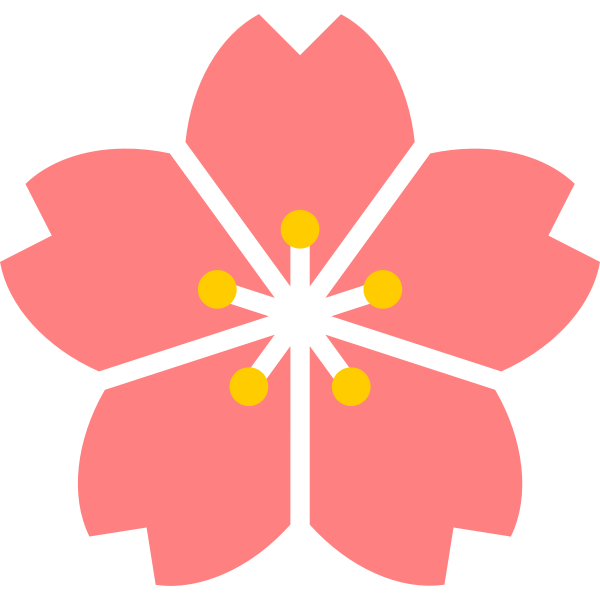
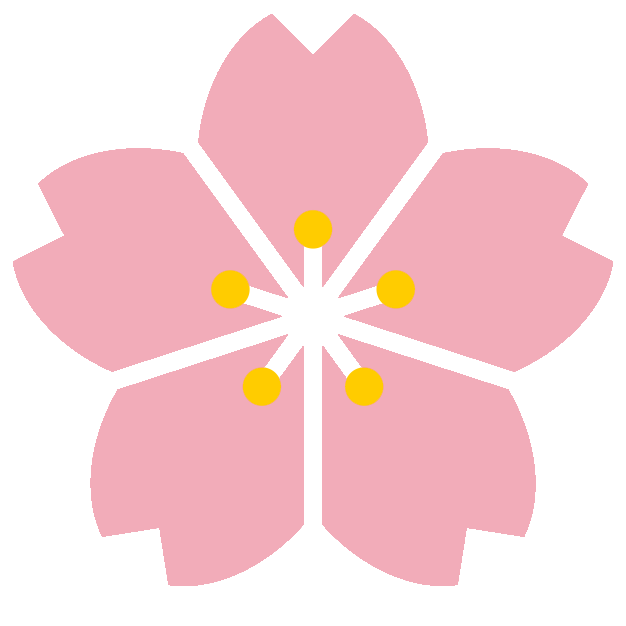
format head; update images

diff --git a/resources/css/styles.css b/resources/css/styles.css
@@ -2,3 +2,50 @@ html
 {
     font-family: 'Spartan', sans-serif;
 }
+
+body
+{
+    width: auto;
+    margin: 0 0;
+    padding: 36px 36px;
+}
+
+.background
+{
+    position: fixed;
+    top: 0;
+    left: 0;
+    z-index: -10;
+    background-image: url(../images/site-bg.jpg);
+    background-size: cover;
+    width: 100%;
+    height: 100%;
+}
+
+header
+{
+    display: flex;
+    flex-direction: column;
+    align-items: center;
+}
+
+header h1{
+    width: fit-content;
+}
+
+header img{
+    max-width: 250px;
+    background-color: white;
+    border-radius: 50%;
+}
+
+nav{
+    width: 70%;
+    display: flex;
+    justify-content: space-around;
+    margin: auto;
+    background-color: #f2acb9;
+    position: sticky;
+    top: 0;
+    border-radius: 100px;
+}

diff --git a/index.html b/index.html
@@ -11,6 +11,25 @@
   </head>
 
   <body>
-    <h1>Dolce Dice</h1>
+    <div class="background"></div>
+    <header>
+      <img src="./resources/images/Icon.png" alt="cherry blossom logo">
+      <h1>Dolce Dice</h1>
+    </header>
+    <nav>
+      <a href=""><p>About Us</p></a>
+      <a href=""><p>Collections</p></a>
+      <a href=""><p>Contact</p></a>
+    </nav>
+    <main>
+
+    </main>
+    <article>
+      <h2>About Us</h2>
+      <p>Lorem ipsum dolor, sit amet consectetur adipisicing elit. Animi excepturi error et similique maxime? Id accusamus veniam explicabo minima dolorem totam fugit. Dolorum dolorem quo labore expedita ex quam doloremque!</p>
+    </article>
+    <footer>
+
+    </footer>
   </body>
 </html>
